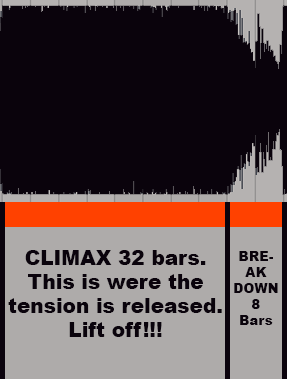
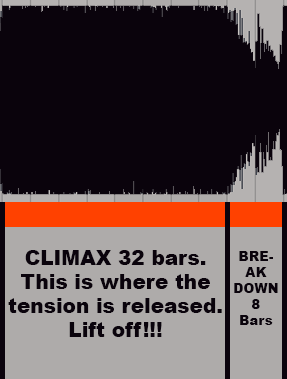
spelling and grammar check

Changed region(s): [[0.0836, 0.7256, 0.7526, 0.7836]]

diff --git a/tutorial.html b/tutorial.html
@@ -100,7 +100,7 @@
                     <div class="container-inner">
                         <div class="center-center">
                             <div class="text-inner">
-                                <h2 class="tutorial-header">Syncronizing beats</h2>
+                                <h2 class="tutorial-header">Synchronizing beats</h2>
                                 <hr>
                                     <h3>Make sure to press BEAT SYNC on the track you want mixed in.</h3>
                             </div>
@@ -131,8 +131,8 @@
                                 <h2 class="tutorial-header">What is a bar?</h2>
                                 <hr>
                                     <h3>Four beats forms a bar.
-                                    <hr>Every 4, 8, 16 or 32 bars something usually changes in a song.
-                                    </h3>
+                                    <hr>For every 4, 8, 16 or 32 bars, something usually changes in a song.
+                                    <hr>You will see an example of this in the next slide.</h3>
                             </div>
                         </div>
                     </div>
@@ -194,8 +194,8 @@
                                 <h2 class="tutorial-header">First Kickdrum</h2>
                                 <hr>
                                     <h3>Navigate to the start of the song you are mixing in and spin the turntable untill you hear the first kickdrum.
-                                    <hr>Now hold PLAY and press CUE and release. You have now saved that starting point to your CUE and PLAY button.
-                                    <hr>Now if you press QUE it will start from the first kickdrum. Great!</h3>
+                                    <hr>Now hold PLAY and press CUE and release. You have now saved that starting point to your CUE button.
+                                    <hr>Now if you press CUE it will start from the first kickdrum. Great!</h3>
                             </div>
                         </div>
                     </div>
@@ -209,7 +209,7 @@
                                 <h2 class="tutorial-header">CUE button 1/2</h2>
                                 <hr>
                                     <h3>The CUE button work like the play button except if you release it the music stops.
-                                    <hr>Tapp the CUE button on the right turntable with the rythmn of the left songs kickdrum. 
+                                    <hr>Tap the CUE button on the right turntable with the rythmn of the left songs kickdrum. 
                                     </h3>
                             </div>
                         </div>
@@ -223,9 +223,9 @@
                             <div class="text-inner">
                                 <h2 class="tutorial-header">CUE button 2/2</h2>
                                 <hr>
-                                    <h3>When it's time to play the song of the right, switch tapping the cue button to push the play button instead.
+                                    <h3>When it's time to play the song on the right, switch tapping the cue button to push the play button instead.
                                     <hr>Use the outer part of the wheel on the turntables to adjust the last percent if needed. 
-                                    beatmatch the two songs together to make them sound clean and avoid noise cancelation.</h3>
+                                    Beatmatch the two songs together to make them sound clean and avoid noise cancelation.</h3>
                             </div>
                         </div>
                     </div>
@@ -253,9 +253,9 @@
                             <div class="text-inner">
                                 <h2 class="tutorial-header">Preparing for the mix</h2>
                                 <hr>
-                                    <h3>Soon its time to mix the two songs together so the crowd can hear too!
-                                    <hr>But first, start with by turning down the right bass knob to 0%.
-                                    <hr>Slowly turn up the volume of the right track to 50% within 16 to 32 bars of the outro.</h3>
+                                    <h3>Soon it's time to mix the two songs together so the crowd can hear too!
+                                    <hr>But first, start by turning down the right bass knob to 0%.
+                                    <hr>Slowly turn up the volume on the right track to 50%, within 16 to 32 bars of the outro.</h3>
                             </div>
                         </div>
                     </div>

diff --git a/index.html b/index.html
@@ -54,7 +54,7 @@
                         Mix your favorite music together and you'll have 
                         an endless stream of badass songs seamlessly 
                         blending together and blasting out of your speakers. 
-                        Guaranteed to make people vibe!
+                        <br>Guaranteed to make people vibe!
                         </h2>
                             <hr class="hr-small">
                                 <h2 class="subheader color-white text-shadow letter-spacing">
